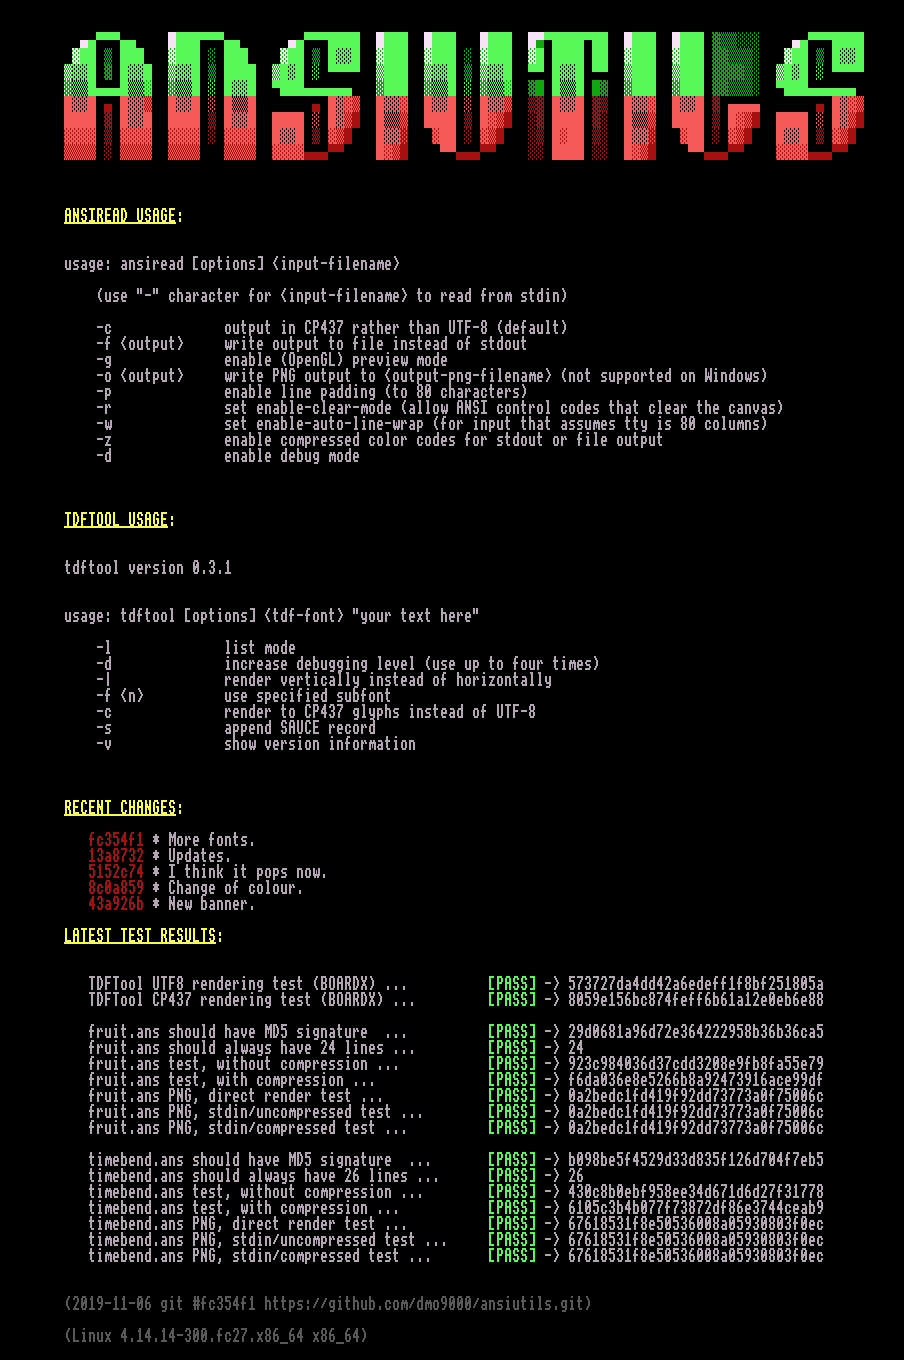
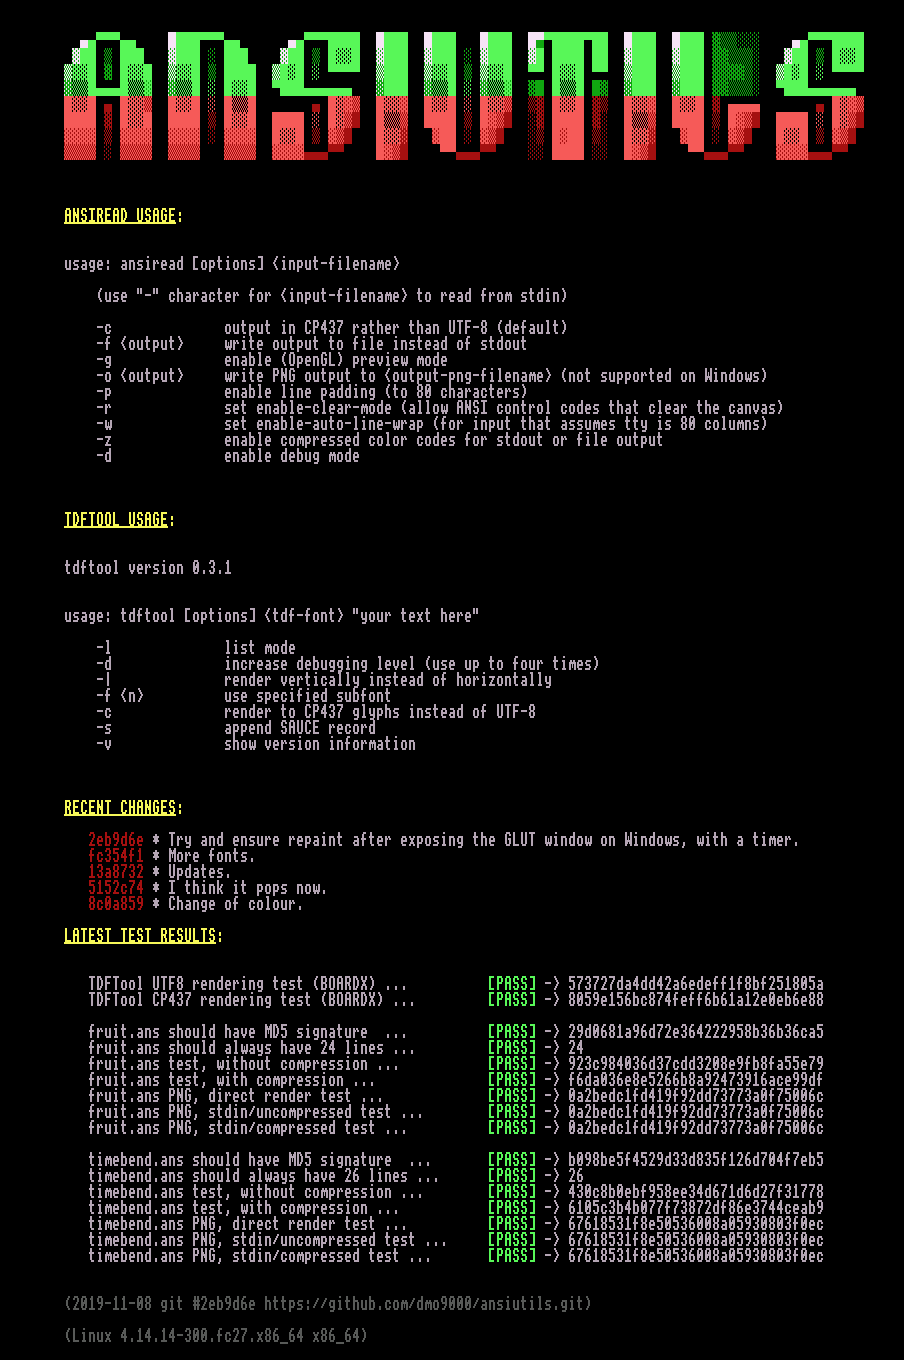
timer() debug.

Changed region(s): [[0.1858, 0.6176, 0.3717, 0.6794], [0.0929, 0.6176, 0.1549, 0.6794]]

diff --git a/ansiutils.html b/ansiutils.html
@@ -61,11 +61,11 @@
 
 	<span style="color:yellow;"></span><span style="text-decoration:underline;color:yellow;"></span><span style="text-decoration:underline;font-weight:bold;color:yellow;">RECENT CHANGES</span><span style="font-weight:bold;color:yellow;">:</span><span style="color:yellow;"></span>
 
+<span style="color:white;background-color:black;">           </span><span style="color:red;background-color:black;">2eb9d6e</span><span style="color:white;background-color:black;"> * Try and ensure repaint after exposing the GLUT window on Windows, with a timer.</span>
 <span style="color:white;background-color:black;">           </span><span style="color:red;background-color:black;">fc354f1</span><span style="color:white;background-color:black;"> * More fonts.</span>
 <span style="color:white;background-color:black;">           </span><span style="color:red;background-color:black;">13a8732</span><span style="color:white;background-color:black;"> * Updates.</span>
 <span style="color:white;background-color:black;">           </span><span style="color:red;background-color:black;">5152c74</span><span style="color:white;background-color:black;"> * I think it pops now.</span>
 <span style="color:white;background-color:black;">           </span><span style="color:red;background-color:black;">8c0a859</span><span style="color:white;background-color:black;"> * Change of colour.</span>
-<span style="color:white;background-color:black;">           </span><span style="color:red;background-color:black;">43a926b</span><span style="color:white;background-color:black;"> * New banner.</span>
 
 	<span style="color:yellow;"></span><span style="text-decoration:underline;color:yellow;"></span><span style="text-decoration:underline;font-weight:bold;color:yellow;">LATEST TEST RESULTS</span><span style="font-weight:bold;color:yellow;">:</span><span style="color:yellow;"></span>
 
@@ -90,7 +90,7 @@
 <span style="color:white;background-color:black;">           timebend.ans PNG, stdin/compressed test ...       </span><span style="color:lime;background-color:black;"></span><span style="font-weight:bold;color:lime;background-color:black;">[PASS]</span><span style="font-weight:bold;color:white;background-color:black;"></span><span style="color:white;background-color:black;"> -&gt; 67618531f8e50536008a05930803f0ec </span>
 <span style="color:white;background-color:black;">           </span>
 
-	<span style="color:dimgray;"></span><span style="font-weight:bold;color:dimgray;">(2019-11-06 git #fc354f1 https://github.com/dmo9000/ansiutils.git)</span><span style="color:dimgray;"></span>
+	<span style="color:dimgray;"></span><span style="font-weight:bold;color:dimgray;">(2019-11-08 git #2eb9d6e https://github.com/dmo9000/ansiutils.git)</span><span style="color:dimgray;"></span>
 
 	<span style="color:dimgray;"></span><span style="font-weight:bold;color:dimgray;">(Linux 4.14.14-300.fc27.x86_64 x86_64)</span><span style="color:dimgray;"></span>
                                                                                                               

diff --git a/gfx_opengl.c b/gfx_opengl.c
@@ -56,6 +56,7 @@ void process_Normal_Keys(unsigned char key, int x, int y);
 
 void timer( int value )
 {
+		printf("timer()\n");
     glutTimerFunc( 16, timer, 0 );
     glutPostRedisplay();
 }
